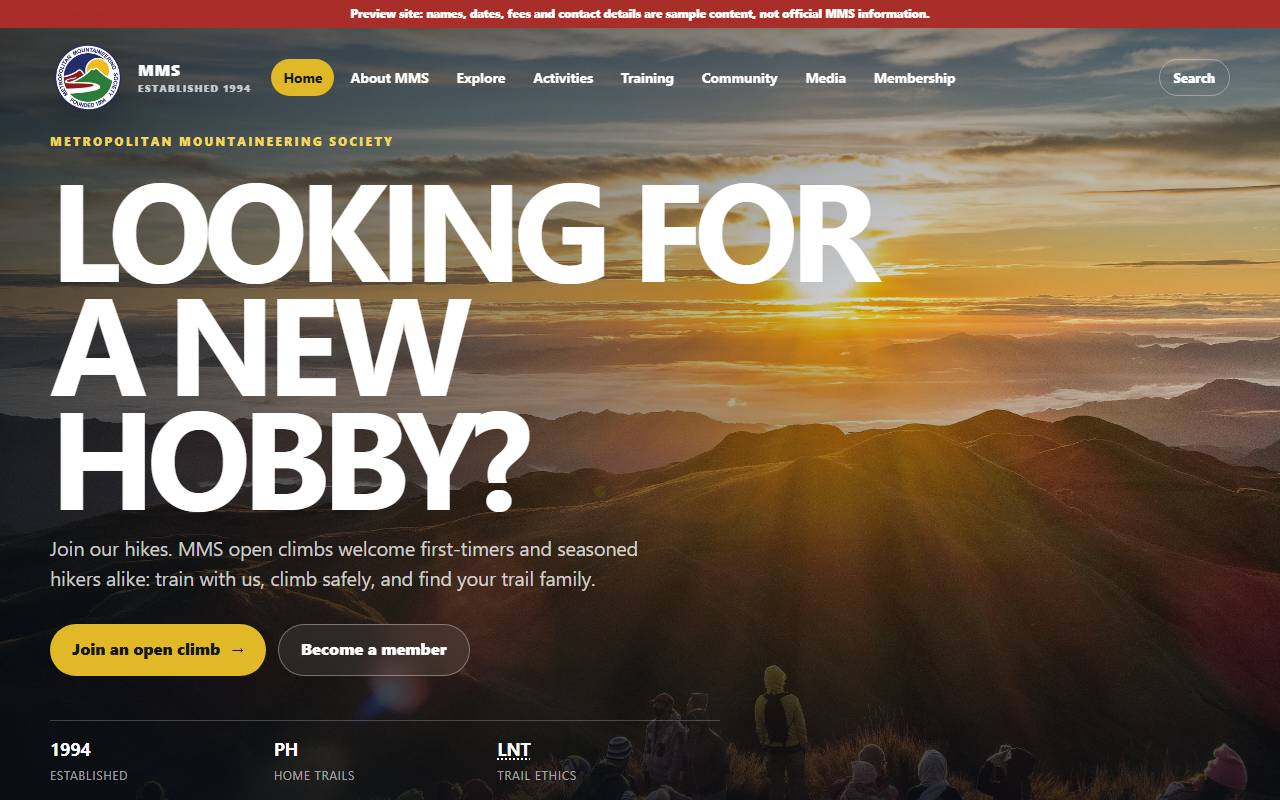
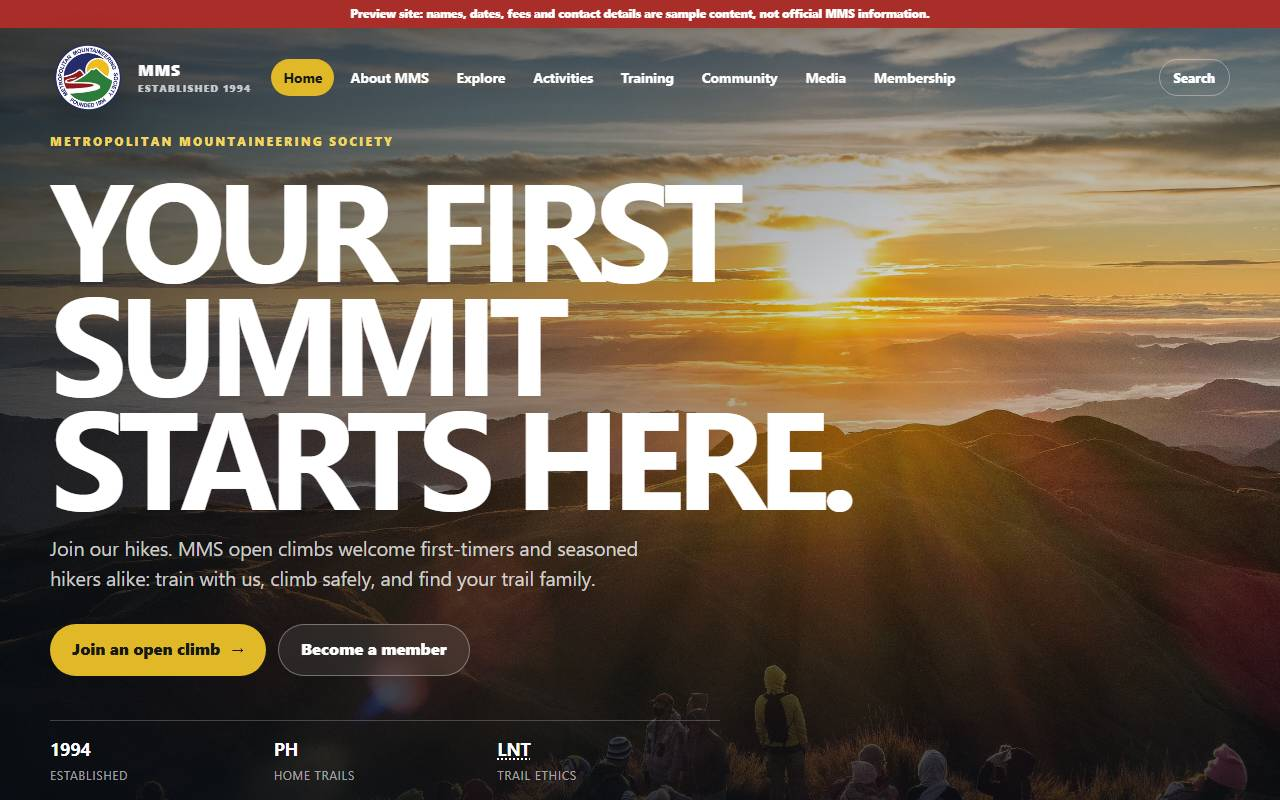
Use more inviting hero slogan

Changed region(s): [[0.0312, 0.2188, 0.6875, 0.6562]]

diff --git a/tests/integration/routes.test.tsx b/tests/integration/routes.test.tsx
@@ -9,7 +9,7 @@ import { legacyRedirects, sectionPath, sitemap, subpagePath } from '../../src/fr
 describe('Home page', () => {
   it('renders the hero headline and official logo', () => {
     const { container } = renderAt('/');
-    expect(screen.getByRole('heading', { level: 1 })).toHaveTextContent('Looking fora new hobby?');
+    expect(screen.getByRole('heading', { level: 1 })).toHaveTextContent('Your firstsummit starts here.');
     expect(container.querySelector('.brand-mark img')).toHaveAttribute('src', '/mms-logo.png');
   });
 

diff --git a/src/frontend/components/Hero.tsx b/src/frontend/components/Hero.tsx
@@ -8,7 +8,7 @@ export default function Hero() {
 
       <div className="shell hero-content">
         <div className="eyebrow">Metropolitan Mountaineering Society</div>
-        <h1>Looking for<br />a new hobby?</h1>
+        <h1>Your first<br />summit starts here.</h1>
         <p className="hero-copy">
           Join our hikes. MMS open climbs welcome first-timers and seasoned hikers alike: train with us, climb
           safely, and find your trail family.

diff --git a/docs/solution-plan/SOLUTION-PLAN.md b/docs/solution-plan/SOLUTION-PLAN.md
@@ -46,7 +46,7 @@ Single tracker. Claude reads this before every commit and updates it in the same
 |---|-----|------|--------|
 | L1 | Reuse Open Climbs capabilities | [migration](#open-climbs-migration); parity todos in `tests/parity` | planned |
 | L2 | Membership inquiry / climb joiner form; notify TCOM + ExeCom; Viber/text; or FB page chat | membership: MMS Google Form → email TCOM + ExeCom (₱0) · climb joiners: link to Open Climbs registration (no 2nd list) · "Message us" → FB Messenger link (₱0) · Viber/SMS out (paid, cost cap) | waiting on open item 13 |
-| L3 | Friendlier opener ("new hobby? join our hikes") | hero: "Looking for a new hobby?" + join copy | **done**, wording to confirm (item 15) |
+| L3 | Friendlier opener ("new hobby? join our hikes") | hero: "Your first summit starts here." + join copy (owner pick 2026-11-09, replaced "Looking for a new hobby?") | **done**, wording to confirm (item 15) |
 | L4 | Active members + recent climb photos on home | stats + photo strip on home, real data only | waiting on item 14 |
 | L5 | Join a climb → details (ITI, expected expenses) → join per climb | per-climb detail page; Join → that climb on Open Climbs; later native ([phases 3, 5](#open-climbs-migration)) | waiting on item 14 |
 | L6 | Review/feedback for past climbs, moderated | Google Form → officers approve → quotes block; later in-app rating | waiting on item 14 |
